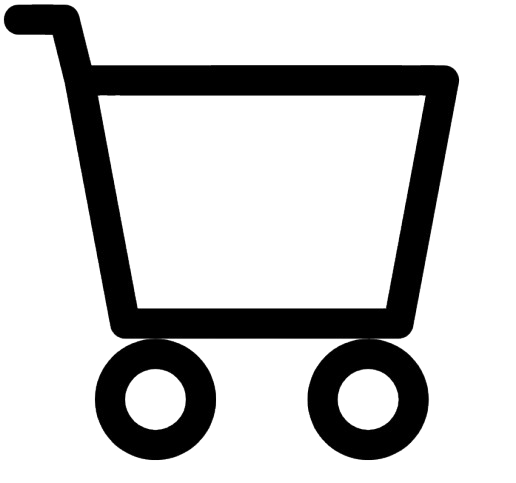
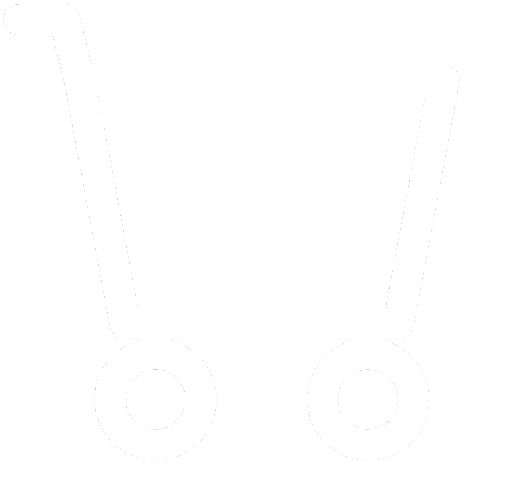
Index mobile version

Changed region(s): [[0.0, 0.0, 0.8992, 0.9627]]

diff --git a/body.css b/body.css
@@ -1,51 +1,69 @@
+    @media(max-width:630px){
+        .main{display: flex;flex-direction: column;}
+        .title{display: none;}
+        .paragraph{display: none;}
+        .img{display: none;}
+
+        
+        .titleMobile{
+        display:block;
+        color: white;
+        font-size: 2rem;
+    }
+    }
 
 
+        .main{
 
-.main{
-
-    display: flex;
-    justify-content: space-between;
-    
-    
-    width: 100%;
-    
-    margin-top: 10vh;
-    margin-bottom: 8.9vh;
-}
-
-
-.img{
-    margin-left: 10.5vw;
-    width: 22vw;
-    height: 100%;
-    border-radius: 1vw;
-    
-    cursor: pointer;
-    
-    box-shadow: rgba(50, 50, 93, 0.25) 0px 30px 60px -12px, rgba(0, 0, 0, 0.3) 0px 18px 36px -18px;
-    transition: all 0.2s;
-}.img:hover{
- transform: scale(1.1);
-}
+            display: flex;
+            justify-content: space-between;
+            
+            
+            height: 400px;
+            width: 100%;
+            margin-top: 10vh;
+            margin-bottom: 8.9vh;
+        }
 
 
-.text{
-    margin-right: 10.5vw;
-    margin-left: 10vw;
-    margin-top: 2vw;
-}
-
-.title{
-margin-right: 2vw;
-color: white;
-font-size: 2.5rem;
-}.paragraph{
-    color: white;
-    font-size: 1.4rem;
-    margin-top: 2vw;
-    
-}
+        .img{
+            margin-left: 10.5vw;
+            width: clamp(250px,30vw,100%);
+            height: auto;
+            border-radius: 1vw;
+            
+            cursor: pointer;
+            
+            box-shadow: rgba(50, 50, 93, 0.25) 0px 30px 60px -12px, rgba(0, 0, 0, 0.3) 0px 18px 36px -18px;
+            transition: all 0.2s;
+        }.img:hover{
+        transform: scale(1.1);
+        }
 
 
+        .text{
+            margin-right: 10.5vw;
+            margin-left: 10vw;
+            margin-top: 2vw;
+            height: 100%;
+            overflow: hidden;
+        
+        }
 
+        .title{
+        margin-right: 2vw;
+        color: white;
+        font-size: clamp(2vw,2.97vw,10vw);
+        }.paragraph{
+            color: white;
+            
+            margin-top: 2vw;
+            font-size: clamp(14.36px,1.82vw,10vw);
+            
+        }
+
+
+        .titleMobile{
+            display: none;
+        }
 

diff --git a/index.html b/index.html
@@ -46,16 +46,20 @@
 
         <div class="loginNcart">
 
-            <div class="cartContainer">
-                <img src="https://ryanvieirarepos.github.io/Makrama/images/cart.png">
+            <div class="cartContainer" id="cart">
+
+                <img class="cartimg" src="images/cart.png" >
+
             </div>
 
-            .<div class="loginContainer" id="loginContainer">
+            <div class="loginContainer" id="loginContainer">
+
                 <svg xmlns="http://www.w3.org/2000/svg" width="40" height="40" fill="White" class="bi bi-person"
                     viewBox="0 0 16 16">
                     <path
                         d="M8 8a3 3 0 1 0 0-6 3 3 0 0 0 0 6m2-3a2 2 0 1 1-4 0 2 2 0 0 1 4 0m4 8c0 1-1 1-1 1H3s-1 0-1-1 1-4 6-4 6 3 6 4m-1-.004c-.001-.246-.154-.986-.832-1.664C11.516 10.68 10.289 10 8 10s-3.516.68-4.168 1.332c-.678.678-.83 1.418-.832 1.664z" />
                 </svg>
+
             </div>
 
         </div>
@@ -72,9 +76,15 @@
 
 
 
-        <img src="https://ryanvieirarepos.github.io/Makrama/images/produto1" class="img" id="product">
+        <img src="https://ryanvieirarepos.github.io/Makrama/images/produto1.png" class="img" id="product">
 
         <div class="text">
+            <strong class="titleMobile">Artesanais que aconchegam</strong>
+            <div class="CollectionStrong">
+              <strong class="collectionStrong">
+
+              </strong>
+            </div>
             <strong class="title">
                 A decoração que transforma o seu lar
             </strong>

diff --git a/Footer and Header/header.css b/Footer and Header/header.css
@@ -8,6 +8,14 @@
    }
 
 
+   @media(max-width: 630px){
+     .navContainer, .navContainer *{
+     display: none;
+    }.loginNcart, .loginNcart *{
+    display: none;
+    }
+   }
+
 .headerContainer{
     display: flex;
     align-items: center;
@@ -61,12 +69,14 @@
     cursor: pointer;
     border-radius: 50%;
     
-    width: clamp(30px,3.2vw,200px);
-    height: 3.2vw;
+    width: clamp(30px,3.5vw,200px);
+    height: 3.5vw;
 }.cartContainer:hover{
   background-color: rgb(226, 204, 176);
-}.cart{
-    width: 100%;
+}.cartimg{
+    margin-top: 0.2vw;
+    margin-left: 0.6vw;
+    width: 2.3vw;
     height: auto;
     
 }
@@ -80,8 +90,8 @@
     margin-right:10vw;
     border-radius:50px ;
 
-    width: clamp(30px,3.2vw,200px);
-    height: 3.2vw;
+    width: clamp(30px,3.5vw,200px);
+    height: 3.5vw;
     
     
 }.loginContainer:hover{

diff --git a/aosmfa.html b/aosmfa.html
@@ -1,0 +1,15 @@
+<!DOCTYPE html>
+<html lang="en">
+<head>
+    <meta charset="UTF-8">
+    <meta name="viewport" content="width=device-width, initial-scale=1.0">
+    <title>Document</title>
+</head>
+<body >
+    <svg xmlns="http://www.w3.org/2000/svg" width="40" height="40" fill="black" class="bi bi-person"
+                    viewBox="0 0 16 16">
+                    <path
+                        d="M8 8a3 3 0 1 0 0-6 3 3 0 0 0 0 6m2-3a2 2 0 1 1-4 0 2 2 0 0 1 4 0m4 8c0 1-1 1-1 1H3s-1 0-1-1 1-4 6-4 6 3 6 4m-1-.004c-.001-.246-.154-.986-.832-1.664C11.516 10.68 10.289 10 8 10s-3.516.68-4.168 1.332c-.678.678-.83 1.418-.832 1.664z" />
+                </svg>
+</body>
+</html>
